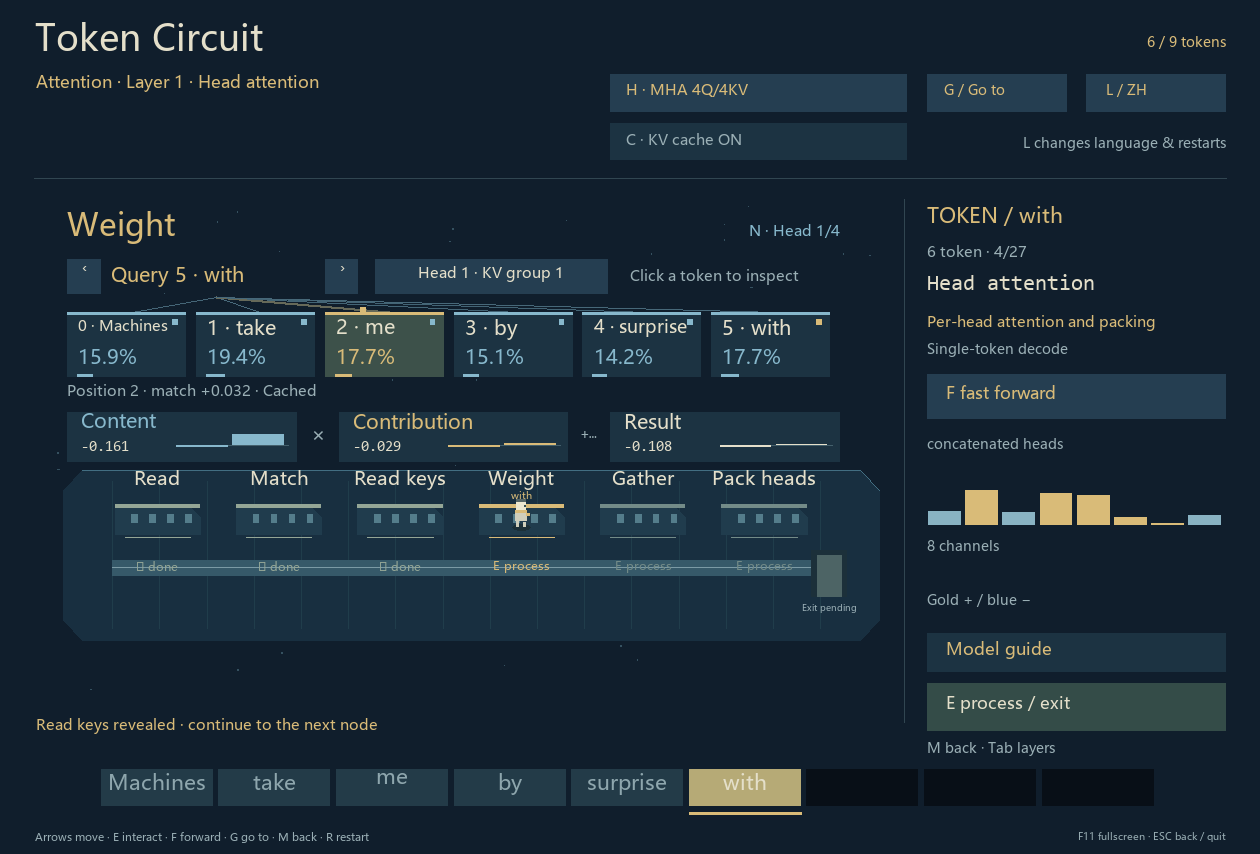
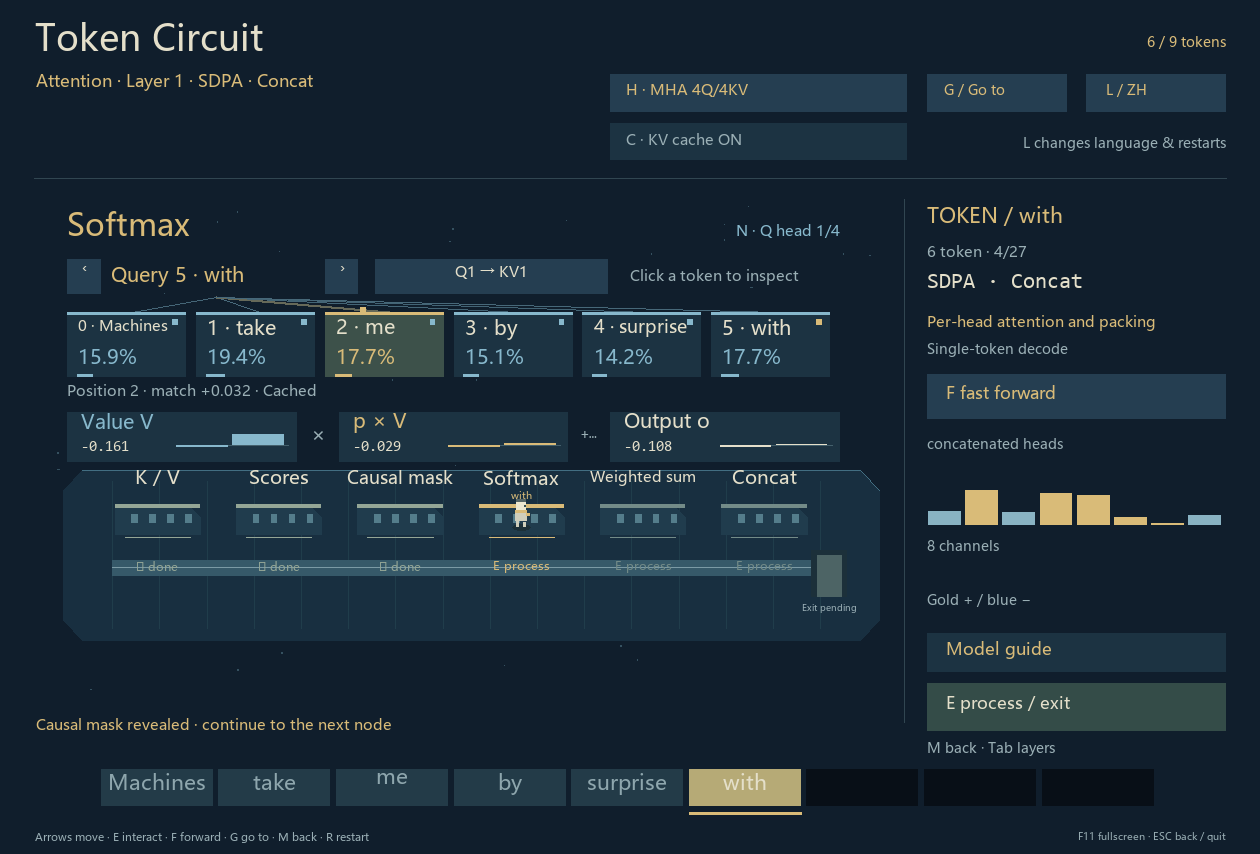
Use standard Transformer terminology in Attention views

diff --git a/tokenwalk/i18n.py b/tokenwalk/i18n.py
@@ -5,32 +5,31 @@ from .model.architecture import CONTENT
 
 
 TEXTS = {
-    "step.qkv.0": ("读取输入", "Read input"),
-    "step.qkv.1": ("生成查询", "Build Q"),
-    "step.qkv.2": ("生成键", "Build K"),
-    "step.qkv.3": ("生成值", "Build V"),
-    "step.qkv.4": ("多头布局", "Head layout"),
-    "step.rope.0": ("读取位置", "Position"),
-    "step.rope.1": ("旋转 Q/K", "Rotate Q/K"),
-    "step.rope.2": ("准备键值", "Ready K/V"),
-    "step.project.0": ("拼接输入", "Packed input"),
-    "step.project.1": ("混合通道", "Mix channels"),
-    "step.project.2": ("注意力输出", "Output"),
-    "step.attention.0": ("读取内容", "Read"),
-    "step.attention.1": ("计算匹配", "Match"),
-    "step.attention.2": ("屏蔽未来", "Mask"),
-    "step.attention.visible": ("可读位置", "Read keys"),
-    "step.attention.3": ("分配权重", "Weight"),
-    "step.attention.4": ("汇聚内容", "Gather"),
-    "step.attention.5": ("拼接各头", "Pack heads"),
-    "probe.content": ("内容", "Content"),
-    "probe.part": ("贡献", "Contribution"),
-    "probe.total": ("汇聚结果", "Result"),
-    "probe.head_hint": ("N · 头 {head}/{count}", "N · Head {head}/{count}"),
-    "probe.head": ("头 {head} · 键值组 {kv}", "Head {head} · KV group {kv}"),
-    "probe.match": ("匹配分数", "Match scores"),
-    "probe.weights": ("位置权重", "Position weights"),
-    "probe.query": ("查询 {position} · {token}", "Query {position} · {token}"),
+    "step.qkv.0": ("Input X", "Input X"),
+    "step.qkv.1": ("Q projection", "Q projection"),
+    "step.qkv.2": ("K projection", "K projection"),
+    "step.qkv.3": ("V projection", "V projection"),
+    "step.qkv.4": ("Heads", "Heads"),
+    "step.rope.0": ("Position", "Position"),
+    "step.rope.1": ("RoPE (Q/K)", "RoPE (Q/K)"),
+    "step.rope.2": ("K / V", "K / V"),
+    "step.project.0": ("Input", "Input"),
+    "step.project.1": ("Linear W_o", "Linear W_o"),
+    "step.project.2": ("Output", "Output"),
+    "step.attention.0": ("K / V", "K / V"),
+    "step.attention.1": ("Scores", "Scores"),
+    "step.attention.2": ("Causal mask", "Causal mask"),
+    "step.attention.3": ("Softmax", "Softmax"),
+    "step.attention.4": ("Weighted sum", "Weighted sum"),
+    "step.attention.5": ("Concat", "Concat"),
+    "probe.content": ("Value V", "Value V"),
+    "probe.part": ("p × V", "p × V"),
+    "probe.total": ("Output o", "Output o"),
+    "probe.head_hint": ("N · Q head {head}/{count}", "N · Q head {head}/{count}"),
+    "probe.head": ("Q{head} → KV{kv}", "Q{head} → KV{kv}"),
+    "probe.match": ("Attention scores", "Attention scores"),
+    "probe.weights": ("Attention weights", "Attention weights"),
+    "probe.query": ("Query {position} · {token}", "Query {position} · {token}"),
     "probe.pick": ("点击 token 查看贡献", "Click a token to inspect"),
     "probe.masked": ("不可见", "Masked"),
     "probe.cached": ("历史缓存", "Cached"),
@@ -97,8 +96,8 @@ TEXTS = {
     ),
     "brief.attention.read.full": ("本轮重算全前缀", "Recompute the full prefix"),
     "brief.attention.visible": (
-        "没有未来 key，直接放行",
-        "No future keys; pass through",
+        "无未来 key，跳过显式 Causal mask",
+        "No future keys; bypass explicit causal mask",
     ),
     "brief.attention.1": ("查询与各位置匹配", "Match the query to each key"),
     "brief.attention.2": (
@@ -123,8 +122,8 @@ TEXTS = {
     "phase.decode": ("单 token 解码", "Single-token decode"),
     "phase.full": ("全前缀重算", "Full-prefix recompute"),
     "mask_bypass": (
-        "当前查询只读取已有位置",
-        "This query reads the existing positions",
+        "无未来 key · 无需显式 Causal mask",
+        "No future keys · explicit causal mask not needed",
     ),
     "mask_axes": (
         "query 行 × key 列 · 末 {rows} 行 / {keys} 列",
@@ -265,11 +264,11 @@ TEXTS = {
         "Last {rows} Q rows × {keys} K columns · original weights",
     ),
     "attention_flow": (
-        "匹配 → {visibility} → 权重 → 汇聚 → 拼接 → 投影",
-        "Match → {visibility} → Weight → Gather → Pack → Project",
+        "Scores → {visibility} → Softmax → PV → Concat → W_o",
+        "Scores → {visibility} → Softmax → PV → Concat → W_o",
     ),
-    "all_visible": ("已有位置", "Read positions"),
-    "causal_visibility": ("屏蔽未来", "Mask future"),
+    "all_visible": ("Mask (bypass)", "Mask (bypass)"),
+    "causal_visibility": ("Causal mask", "Causal mask"),
     "prefix": (
         "末 {n} 个前缀 token · 最后一个 = 小人",
         "Last {n} prefix tokens · last = your character",

diff --git a/tokenwalk/content/attention_guide.py b/tokenwalk/content/attention_guide.py
@@ -1,9 +1,9 @@
 """Layered bilingual attention explanation; only reads configuration."""
 
 FORMULA_TITLES = (
-    ("匹配分数", "Match score"),
-    ("可见位置的概率", "Causal probabilities"),
-    ("汇聚内容与输出投影", "Gather and project"),
+    ("Attention scores · 注意力分数", "Attention scores"),
+    ("Causal mask / Softmax", "Causal mask / Softmax"),
+    ("Weighted sum / Output projection", "Weighted sum / Output projection"),
 )
 
 SECTIONS = (
@@ -17,8 +17,8 @@ SECTIONS = (
     (
         ("图解与操作", "Diagram and controls"),
         (
-            "用查询旁的 ‹ › 选择位置，点击 token 卡片观察对应的 score、概率、V 与 p×V。卡片角标蓝色表示历史缓存，金色表示本轮计算；高亮强调所选位置，不可见的未来位置权重为零。“内容、贡献、汇聚结果”依次显示所选 V、它的加权贡献和完整 head 输出。向量条共用尺度；每张卡片的数字是第一个通道的值。点击头按钮或在子地图按 N 切换 head。长前缀用卡片上方的 ‹ › 翻页，输出仍包含所有位置。",
-            "Use ‹ › beside Query to choose a position. Click a token card to inspect its score, probability, V and p×V. Blue corner markers identify cached history and gold markers identify new computation; highlighting identifies selection; masked future positions have zero weight. Content, Contribution and Result show the selected V, its weighted contribution and the complete head output. Strips share one scale; each number is the first channel. Click the head button or press N in the child room to inspect another head. Page through long prefixes using the upper ‹ ›; output still includes every position.",
+            "用 Query 旁的 ‹ › 选择查询位置，点击 token 卡片观察对应的注意力分数、概率与 V。蓝色角标表示历史缓存，金色表示本轮计算；不可见的未来位置权重为零。Value V 是所选位置的值向量；p×V 是它对当前 head 的加权贡献；Output o 是所有位置贡献的加权和。向量条共用尺度，每张卡片的数字是第一个通道的值。点击 Q→KV 按钮或在子地图按 N 切换查询头；GQA 时多个查询头可对应同一个 KV head。长前缀用卡片上方的 ‹ › 翻页，输出仍包含所有位置。",
+            "Use ‹ › beside Query to choose a query position. Click a token card to inspect its attention score, probability and V. Blue corner markers identify cached history and gold markers identify new computation; masked future positions have zero weight. Value V is the selected value vector; p×V is its weighted contribution to this head; Output o is the weighted sum across all positions. Strips share one scale; each number is the first channel. Click Q→KV or press N in the child room to inspect another query head; GQA allows query heads to share a KV head. Page through long prefixes using the upper ‹ ›; output still includes every position.",
         ),
     ),
     (

diff --git a/tests/test_attention_readability.py b/tests/test_attention_readability.py
@@ -23,12 +23,23 @@ class ReadabilityTests(unittest.TestCase):
     def tearDown(self):
         self.g.close()
 
-    def test_path_names_are_plain_localized_actions_without_changing_spec(self):
-        s = self.g.session
-        self.assertEqual(s.rooms.active.spec.nodes[-1], "Concat")
-        self.assertEqual(s.checkpoint_title(4), "汇聚内容")
-        self.assertEqual(s.checkpoint_title(2), "屏蔽未来")
-        self.assertNotIn("Σ", s.checkpoint_title(4))
+    def test_checkpoint_names_use_attention_terms_in_both_languages(self):
+        expected = (
+            "K / V",
+            "Scores",
+            "Causal mask",
+            "Softmax",
+            "Weighted sum",
+            "Concat",
+        )
+        for language in ("zh", "en"):
+            if self.g.language != language:
+                self.g.toggle_language()
+            self.g.jump_to(4)
+            self.g.interact()
+            s = self.g.session
+            self.assertEqual(s.rooms.active.spec.nodes[-1], "Concat")
+            self.assertEqual(tuple(s.checkpoint_title(i) for i in range(6)), expected)
 
     def test_inspector_labels_explain_content_contribution_result(self):
         s = self.g.session
@@ -42,16 +53,19 @@ class ReadabilityTests(unittest.TestCase):
             for i in self.g.canvas.find_all()
             if self.g.canvas.type(i) == "text"
         ]
-        self.assertIn("内容", words)
-        self.assertIn("贡献", words)
-        self.assertIn("汇聚结果", words)
+        self.assertIn("Value V", words)
+        self.assertIn("p × V", words)
+        self.assertIn("Output o", words)
         self.assertNotIn("Σ pV", words)
 
-    def test_no_future_key_caption_explains_reading_existing_positions(self):
+    def test_mask_operation_keeps_its_name_when_no_mask_is_needed(self):
         g = self.g
         # Single-token full prefix has no future keys for its only query.
         g.config = replace(g.config, context=(0,))
         g.restart()
         g.jump_to(4)
         g.interact()
-        self.assertEqual(g.session.checkpoint_title(2), "可读位置")
+        self.assertEqual(g.session.checkpoint_title(2), "Causal mask")
+        self.assertFalse(
+            any(g.session.rooms.active.result.details["traces"][0]["mask_applied"])
+        )

diff --git a/tokenwalk/content/guide.py b/tokenwalk/content/guide.py
@@ -102,7 +102,7 @@ TOPICS = {
         ),
     ),
     "attention": Topic(
-        "Head attention",
+        "Scaled Dot-Product Attention",
         (
             "每个 Q head 在可读位置中寻找匹配，再用概率汇聚对应的 V。多头并行，最后拼接一次。",
             "Each query head finds matches across visible positions and gathers its corresponding V using probability weights. Heads run independently and are packed once.",
@@ -129,8 +129,8 @@ TOPICS = {
             "W_o: {dim} × {dim}; {dim} → {dim} channels.",
         ),
         (
-            "拼接在 Head attention 的最后一步完成，这里不会再次拼接。下一步把分支结果加回 RMSNorm 前的残差流。",
-            "Packing happens at the end of Head attention and is not repeated here. The next stage adds this result to the stream preserved before RMSNorm.",
+            "Concat 在各头的 Scaled Dot-Product Attention 之后完成。这里对已拼接结果进行输出投影，下一步把分支结果加回 RMSNorm 前的残差流。",
+            "Concat follows the per-head Scaled Dot-Product Attention. Output projection uses that already-packed result; the next stage adds it to the stream preserved before RMSNorm.",
         ),
     ),
     "residual": Topic(

diff --git a/tokenwalk/simulation/rooms.py b/tokenwalk/simulation/rooms.py
@@ -40,17 +40,12 @@ ROOMS = {
 
 
 def specification(result, config):
-    """Refine labels from real diagnostics; checkpoint count/order stays stable."""
+    """Specialize head layout names without changing checkpoint count/order."""
     base = ROOMS[result.stage.kind]
     nodes = list(base.nodes)
     labels = list(base.label_keys)
     if base.kind == "qkv":
         nodes[4] = config.attention_mode + " heads"
-    elif base.kind == "attention" and not any(
-        result.details["traces"][0]["mask_applied"]
-    ):
-        nodes[2] = "All visible"
-        labels[2] = "step.attention.visible"
     return RoomSpec(base.kind, tuple(nodes), tuple(labels))
 
 

diff --git a/tests/test_attention_flow.py b/tests/test_attention_flow.py
@@ -38,7 +38,7 @@ class AttentionFlowTests(unittest.TestCase):
         self.assertEqual([mha.kv_head_for(h) for h in range(4)],[0,1,2,3])
         self.assertEqual([gqa.kv_head_for(h) for h in range(4)],[0,0,1,1])
         self.assertEqual([s.kind for s in build_stages(mha)],[s.kind for s in build_stages(gqa)])
-        self.assertEqual(build_stages(mha)[4].title,'Head attention')
+        self.assertEqual(build_stages(mha)[4].title,'SDPA · Concat')
         self.assertEqual(build_stages(mha)[5].title,'Output · W_o')
 
     def test_all_query_head_outputs_are_packed_once_before_wo(self):

diff --git a/tokenwalk/model/architecture.py b/tokenwalk/model/architecture.py
@@ -92,7 +92,7 @@ CONTENT = {
         "在每个 head 内，按 token 的位置旋转 Q 和 K 的成对坐标。V 保持原样；不是把位置加到 embedding 上。",
     ),
     "attention": (
-        "Head attention",
+        "SDPA · Concat",
         "逐头注意力与拼接",
         "各 Q head 独立计算 QKᵀ/√d_head，屏蔽实际存在的未来位置，softmax 后加权汇聚所对应的 V，最后按 head 顺序拼接。MHA/GQA 决定 Q head 与 K/V head 的对应关系，不是额外的一步。",
     ),

diff --git a/tests/test_detail_ui.py b/tests/test_detail_ui.py
@@ -124,7 +124,8 @@ class DetailInterfaceTests(unittest.TestCase):
                 break
         g.jump_to(4)
         g.interact()
-        self.assertEqual(s.rooms.active.spec.nodes[2],'All visible')
+        self.assertEqual(s.rooms.active.spec.nodes[2],'Causal mask')
+        self.assertFalse(any(s.rooms.active.result.details['traces'][0]['mask_applied']))
         for cp in s.room_checkpoints[:3]:
             s.x,s.y=cp.x,cp.y
             g.interact()

diff --git a/docs/player-guide.md b/docs/player-guide.md
@@ -7,7 +7,7 @@
 1. Launch the game. Only the first token in the bottom sentence is lit.
 2. Move toward Embedding with arrows or WASD; press E / Enter to enter.
 3. Approach a device and press E to process it. Leave through the illuminated exit when finished.
-4. Inside Attention, enter QKV, RoPE, Head attention and Output rooms for another level of detail. M returns one level and keeps your progress.
+4. Inside Attention, enter QKV, RoPE, SDPA / Concat and Output rooms for another level of detail. M returns one level and keeps your progress.
 5. After the output stage, your character dissolves and reassembles at the beginning. The next token lights up. Repeat until the sentence ends.
 
 F completes the current forward pass quickly. G opens the stage picker: left/right selects a block or input/output section, up/down selects a module, and Enter jumps there. A jump does not reveal the next token early.
@@ -30,7 +30,7 @@ Click an explanation button to read a module document. Reading pauses the game; 
 
 ## Attention inspector
 
-At Head attention / Weight, click token cards to inspect contributions. Query arrows select available query rows; the head button or N changes the head. Long prefixes have page arrows. Masked future positions contribute zero. These controls only change the view, not calculation progress. The explanation button opens formulas and worked examples.
+At SDPA / Softmax, click token cards to inspect Value V, its weighted contribution p×V and the complete head output. SDPA means Scaled Dot-Product Attention; Concat joins the head outputs. Query arrows select available query rows; Q→KV or N changes the head. Long prefixes have page arrows. Masked future positions contribute zero. These controls only change the view, not calculation progress. The explanation button opens formulas and worked examples.
 
 ## Questions
 

diff --git a/docs/player-guide.zh-CN.md b/docs/player-guide.zh-CN.md
@@ -7,7 +7,7 @@
 1. 启动游戏，最下面只亮起句子的第一个 token。
 2. 用方向键或 WASD 靠近 Embedding，按 E / Enter 进入。
 3. 在房间中靠近装置，按 E 处理；完成后从亮起的出口离开。
-4. Attention 内还可以进入 QKV、RoPE、Head attention、Output 的内部地图。M 返回上一层，进度保留。
+4. Attention 内还可以进入 QKV、RoPE、SDPA / Concat、Output 的内部地图。M 返回上一层，进度保留。
 5. 完成输出模块后，小人消散并在模型开头聚拢，句子亮起下一个 token；重复直到句子结束。
 
 F 会快速走完当前的一次 forward。G 打开定位面板：左右选择 block 或输入/输出区，上下选择模块，Enter 定位；定位不会提前点亮下一个 token。
@@ -30,7 +30,7 @@ F 会快速走完当前的一次 forward。G 打开定位面板：左右选择 b
 
 ## Attention 观察台
 
-在 Head attention 的“分配权重”处点击 token 卡片查看贡献。查询旁的箭头选择已有 query，头按钮或 N 切换 head；长前缀可翻页。被屏蔽的未来位置贡献为零。这些操作只改变观察，不推进计算。说明按钮提供公式与算例。
+在 SDPA 的 Softmax 处点击 token 卡片，查看 Value V、它的加权贡献 p×V 和完整 head 输出。SDPA 是 Scaled Dot-Product Attention（缩放点积注意力），Concat 拼接各头输出。Query 旁的箭头选择查询位置，Q→KV 或 N 切换 head；长前缀可翻页。被屏蔽的未来位置贡献为零。这些操作只改变观察，不推进计算。说明按钮提供公式与算例。
 
 ## 常见问题
 

diff --git a/README.md b/README.md
@@ -40,7 +40,7 @@ H, C and L restart the journey. Esc closes an open document or picker, leaves fu
 
 Click a module's explanation button for details. Reading pauses the game.
 
-In Attention, click a token to inspect its score, probability and contribution. Query arrows change the inspected position; the head button changes the head.
+In Attention, click a token to inspect its score, probability and contribution. Query arrows change the inspected position; Q→KV changes the head.
 
 ![Attention inspector](assets/showcase/attention-inspector.en.png)
 

diff --git a/README.zh-CN.md b/README.zh-CN.md
@@ -40,7 +40,7 @@ H、C、L 会重新开始。Esc 根据当前界面关闭文档或定位面板、
 
 点击模块的说明按钮查看详细内容，阅读期间游戏暂停。
 
-在 Attention 中点击 token 查看匹配分数、概率与贡献。查询旁的箭头切换位置，头按钮切换 head。
+在 Attention 中点击 token 查看注意力分数、概率与贡献。Query 旁的箭头切换位置，Q→KV 按钮切换 head。
 
 ![Attention 观察台](assets/showcase/attention-inspector.zh.png)
 
